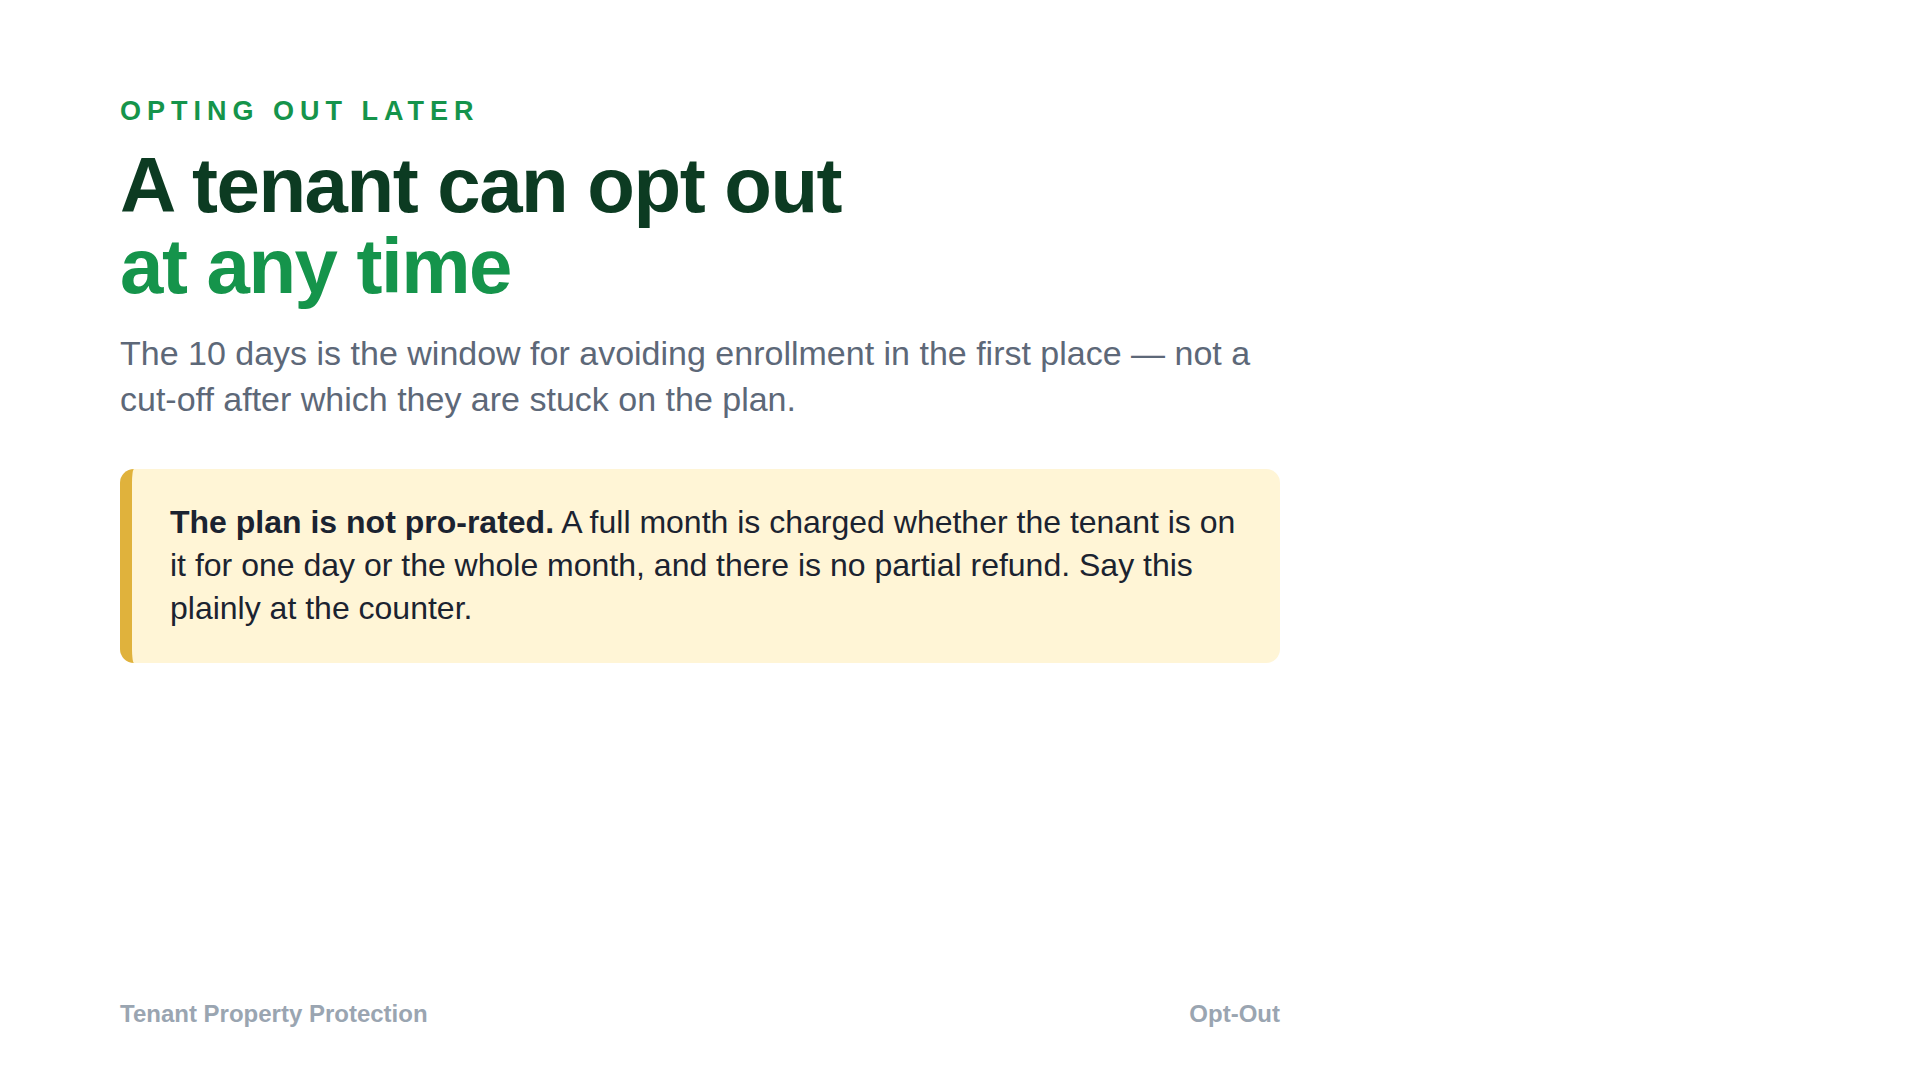
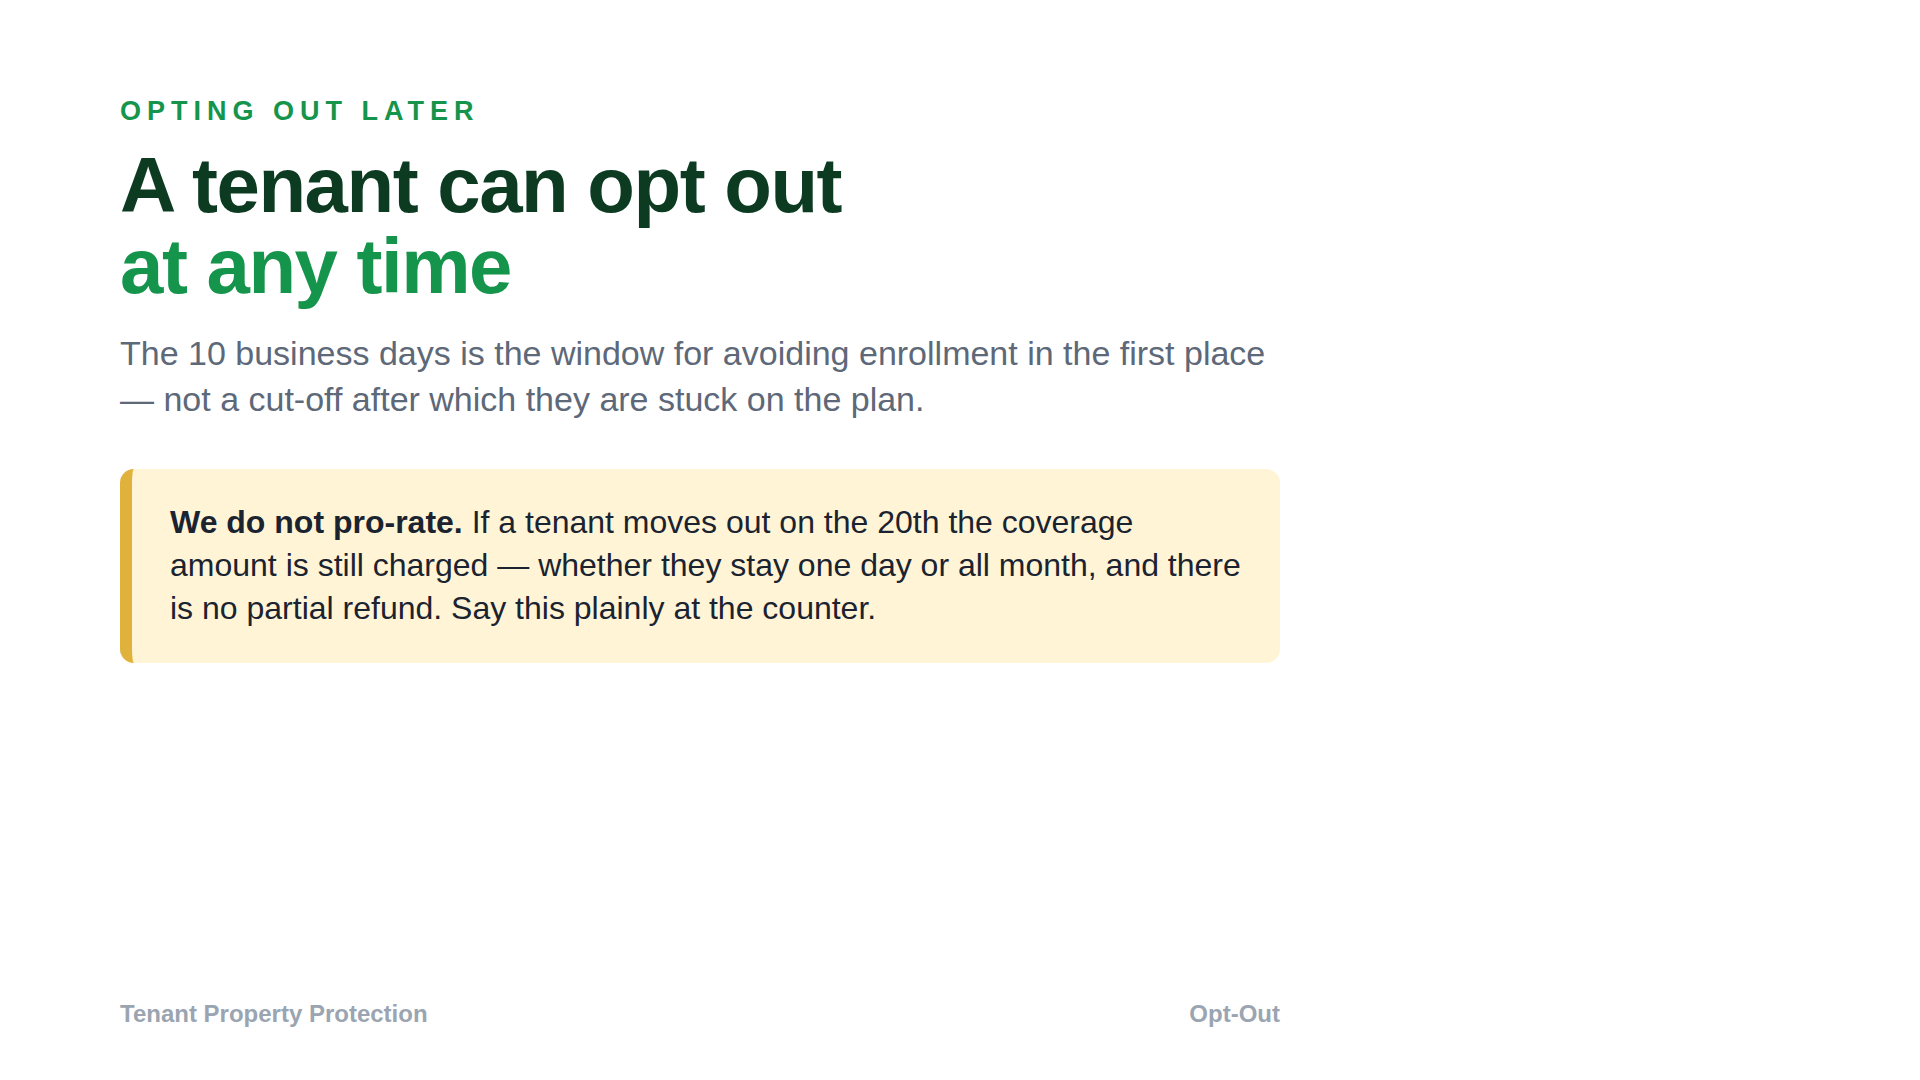
The RV deck and script had the same opt-out wording
The opt-out corrections went into both courses' quizzes this morning, but
only Secure's slides and script were brought with them. RV's still said
ten days, three details, and a full month charged — contradicting its own
knowledge check.

Slides 13, 14 and 16 corrected, and the verify slide gains a fourth tile.
Its tiles were pinned to a third of the row each, so four wrapped onto a
second line until the basis was made a quarter. The script is corrected
too, though her voice still says the old wording until part-5 is
re-rendered.

Secure's presenting slide is fixed as well — it still read "Ask which,
not whether", which an earlier sweep missed because the markup splits the
phrase and a plain search does not see it. Searching with the tags
stripped finds it.

Claude-Session: https://claude.ai/code/session_01SVBeaJqqY1w1riJ9JWxQJ1

Changed region(s): [[0.0938, 0.4583, 0.6562, 0.5806], [0.0625, 0.3056, 0.6562, 0.3972]]

diff --git a/tools/slides/gen_rv.py b/tools/slides/gen_rv.py
@@ -186,27 +186,28 @@ differently. It is not one login per location. If you are not sure how yours is 
 "Manager Portal")
 
 add('13-optout', """<div class='kick'>The tenant opt-out process</div>
-<h1>Tenants have <em>10 days</em><br>from move-in</h1>
+<h1>Tenants have <em>10 business days</em><br>from move-in</h1>
 <div class='rows'>
  <div class='row'><div class='ic'>1</div><div><div class='t'>Submit at myownpolicy.com</div>
    <div class='d'>Or email <b>support@myownpolicy.com</b> if the upload will not work.</div></div></div>
  <div class='row'><div class='ic'>2</div><div><div class='t'>Attach a photo of the declaration page</div>
-   <div class='d'>One readable image showing all three required details.</div></div></div>
+   <div class='d'>One readable image showing all four required details.</div></div></div>
  <div class='row'><div class='ic'>3</div><div><div class='t'>Our team reviews Monday&ndash;Friday</div>
    <div class='d'>Once verified, the policy is added to the tenant&rsquo;s account.</div></div></div>
 </div>
-<div class='flag'>If 10 days pass with no verified policy, the tenant is <b>automatically enrolled</b> in the protection plan.</div>""",
+<div class='flag'>If 10 business days pass with no verified policy, the tenant is <b>automatically enrolled</b> in the protection plan.</div>""",
 "Opt-Out")
 
-add('14-three-details', """<div class='kick'>The photo must show all three</div>
+add('14-three-details', """<div class='kick'>The photo must show all four</div>
 <h1>What we verify on the<br>declaration page</h1>
 <div class='grid'>
- <div class='tile' style='width:400px'><b>The Insurance Carrier</b><span>Name as it appears on the policy</span></div>
- <div class='tile' style='width:400px'><b>The Policy Number</b></div>
- <div class='tile' style='width:400px'><b>The Expiration Date</b></div>
+ <div class='tile' style='flex:0 0 calc((100% - 78px)/4)'><b>The Insurance Carrier</b><span>Name as it appears on the policy</span></div>
+ <div class='tile' style='flex:0 0 calc((100% - 78px)/4)'><b>The Policy Number</b></div>
+ <div class='tile' style='flex:0 0 calc((100% - 78px)/4)'><b>The Expiration Date</b></div>
+ <div class='tile' style='flex:0 0 calc((100% - 78px)/4)'><b>The Tenant on the Lease</b><span>The name on the policy must match</span></div>
 </div>
-<div class='flag'>If any one of the three is missing, cut off or unreadable, the policy <b>cannot be added</b>
-and the opt-out <b>does not go through</b>. The declaration page normally shows all three in one shot.</div>""",
+<div class='flag'>If any one of the four is missing, cut off or unreadable, the policy <b>cannot be added</b>
+and the opt-out <b>does not go through</b>. The declaration page normally shows all of it in one shot.</div>""",
 "Opt-Out")
 
 add('15-expiry', """<div class='kick'>Before a policy lapses</div>
@@ -222,10 +223,10 @@ from <b>myownpolicy.com</b> &mdash; <b>10 days before the policy expires</b>.</d
 
 add('16-billing', """<div class='kick'>Opting out later</div>
 <h1>A tenant can opt out<br><em>at any time</em></h1>
-<div class='lede'>The 10 days is the window for avoiding enrollment in the first place &mdash; not a
+<div class='lede'>The 10 business days is the window for avoiding enrollment in the first place &mdash; not a
 cut-off after which they are stuck on the plan.</div>
-<div class='flag'><b>The plan is not pro-rated.</b> A full month is charged whether the tenant is on it for
-one day or the whole month, and there is no partial refund. Say this plainly at the counter.</div>""",
+<div class='flag'><b>We do not pro-rate.</b> If a tenant moves out on the 20th the coverage amount is still
+charged &mdash; whether they stay one day or all month, and there is no partial refund. Say this plainly at the counter.</div>""",
 "Opt-Out")
 
 add('17-exclusion', """<div class='kick'>Before launch</div>

diff --git a/tools/slides/gen_secure.py b/tools/slides/gen_secure.py
@@ -112,10 +112,10 @@ and <b>higher limits are available on request</b>.</div>""")
 
 add('06-present', f"""<img class='brand' src='{LOGO}'>
 <div class='kick'>How to present it</div>
-<h1>Ask <em>which</em>, not <em>whether</em></h1>
+<h1>Ask <em>what they need</em>,<br>not <em>whether they want it</em></h1>
 <div class='three'>
   <div>&ldquo;Would you like a protection plan?&rdquo;<br><span style='color:#ff9ba3;font-size:28px'>invites a NO</span></div>
-  <div style='background:#B01824'>&ldquo;Which level of protection would you like?&rdquo;<br><span style='font-size:28px'>moves the conversation forward</span></div>
+  <div style='background:#B01824'>&ldquo;What level of coverage do your contents need?&rdquo;<br><span style='font-size:28px'>moves the conversation forward</span></div>
 </div>
 <ul style='margin-top:46px'><li>Name the <b>middle plan first</b> &mdash; room to move either direction</li>
 <li>Frame it <b>daily</b>: nobody argues about 50&cent; a day</li>
